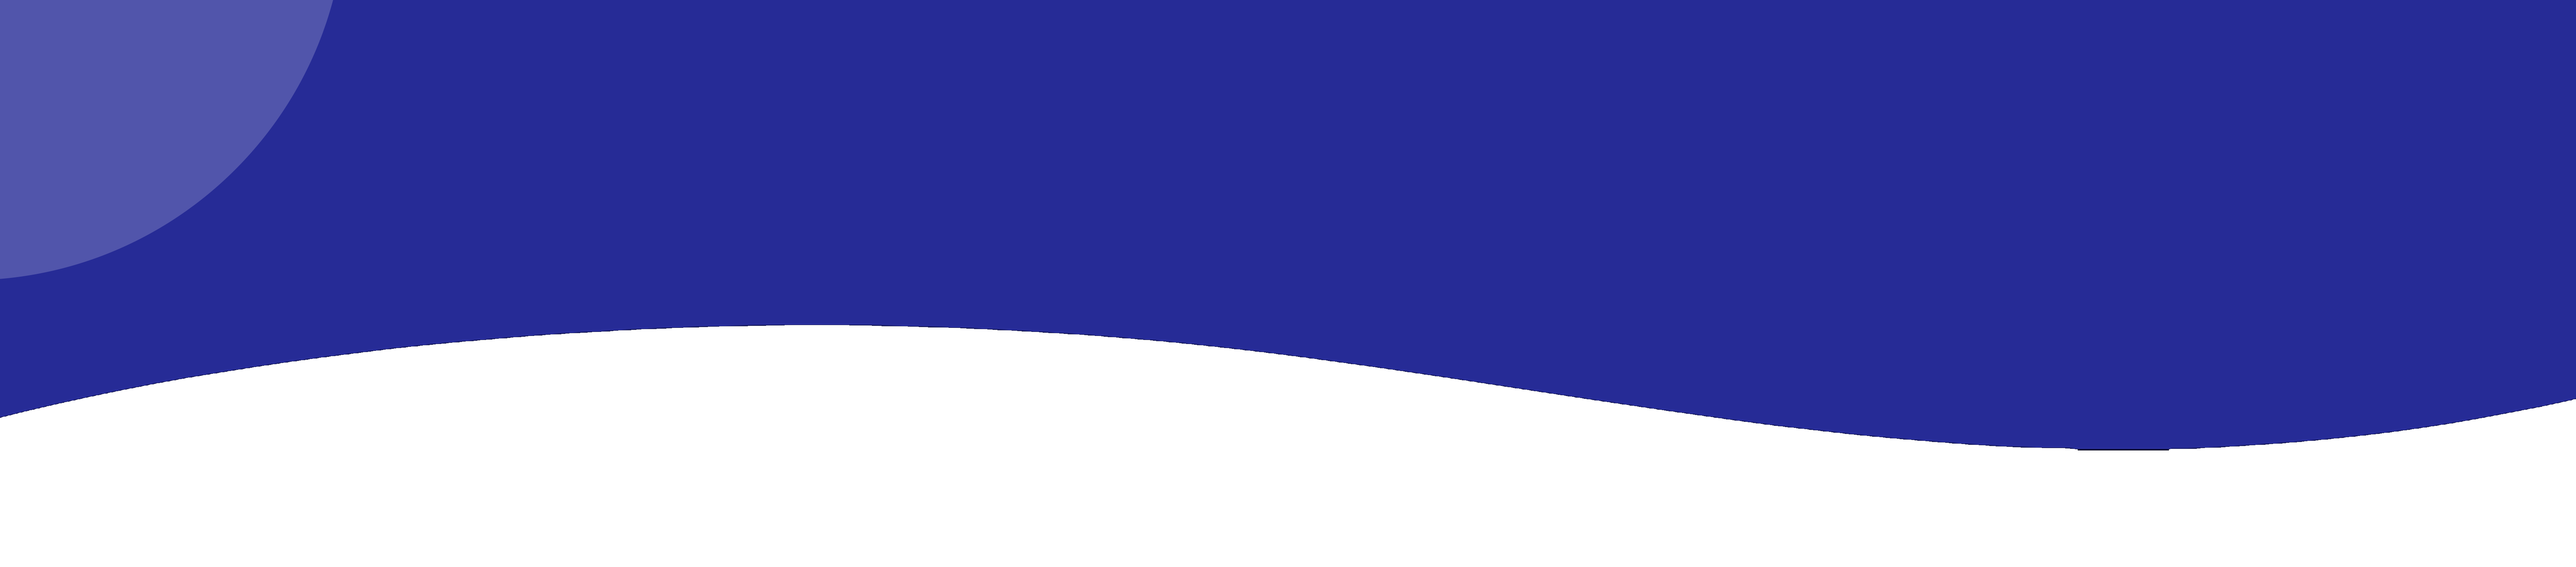
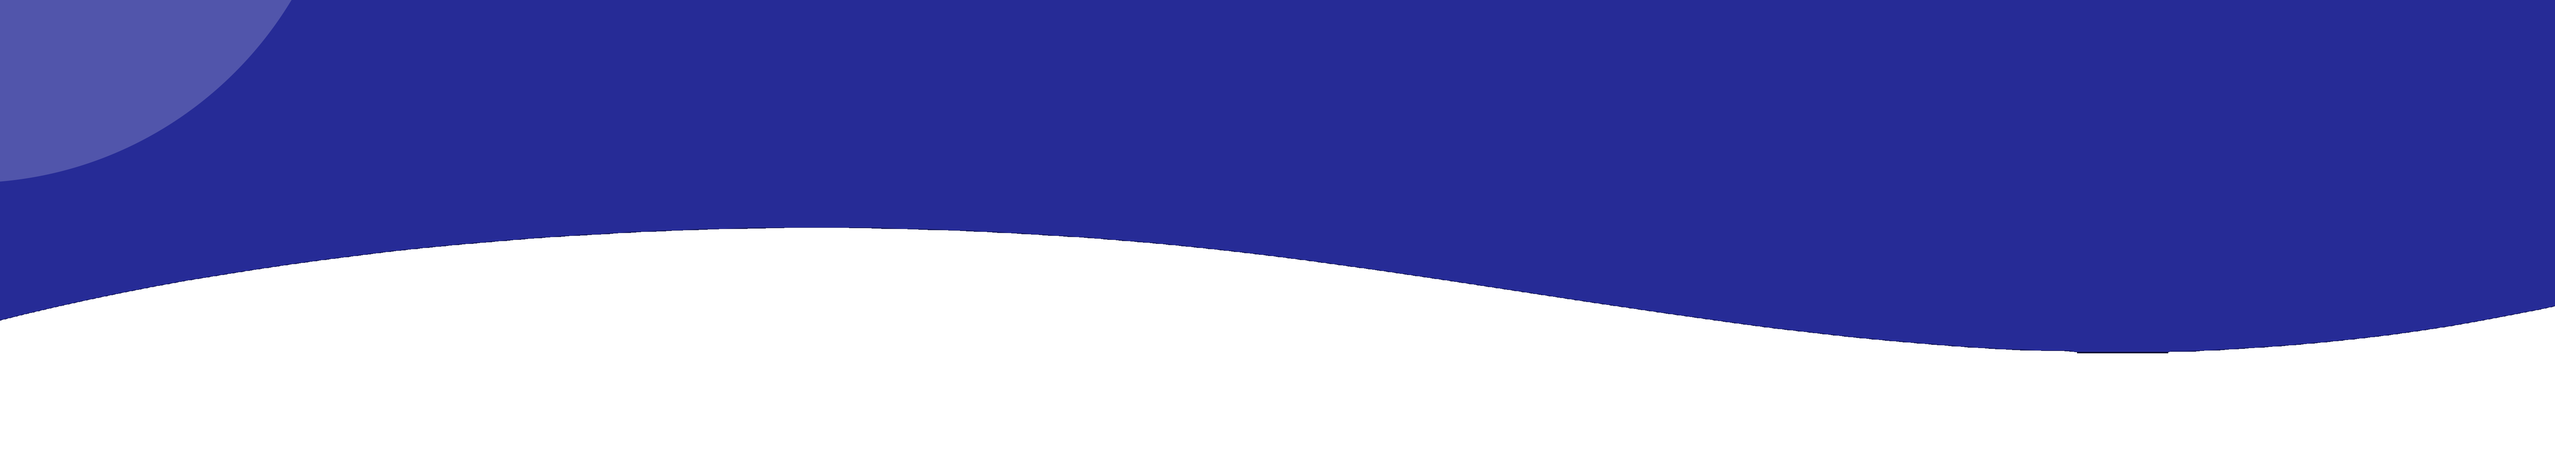
17:45

Changed region(s): [[0.0, 0.4639, 1.0, 0.8041], [0.0, 0.0, 0.1556, 0.4948]]

diff --git a/project/client/src/components/new auction/NewAuction.js b/project/client/src/components/new auction/NewAuction.js
@@ -6,7 +6,7 @@ import AuctionPricing from './auction pricing/AuctionPricing';
 import UploadingProducts from './uploading products/UploadingProducts';
 import { BrowserRouter as Router, Link, useRouteMatch, Route, Switch } from 'react-router-dom'
 import FinalStep from './FinalStep';
-
+import './NewAuction.scss';
 const NewAuction = (props) => {
     return (<>
        <header className="new_auction_header">

diff --git a/project/client/src/components/homePage/home.scss b/project/client/src/components/homePage/home.scss
@@ -9,8 +9,8 @@ header{
   background-image: url('../../img/logo.png');
   background-size: 100%;
   background-repeat: no-repeat;
-  height:30vh;
-  width: 20vw;
+  height: 28vh;
+  width: 18vw;
 display: inline-block;
 cursor: pointer;
 margin-top: 5vh;

diff --git a/project/client/src/components/new auction/NewAuction.scss b/project/client/src/components/new auction/NewAuction.scss
@@ -34,7 +34,7 @@ body {
   .new_auction_header{
     background-image: url('../../img/header_small.png');
     background-size: 100% 100%;
-    height:36vh;
+    height:28vh;
     width: 100vw;
   }
  .new_auction_footer{

diff --git a/project/client/src/components/auction/Auction.scss b/project/client/src/components/auction/Auction.scss
@@ -48,7 +48,7 @@
  .auction_header{
     background-image: url('../../img/header_small.png');
     background-size: 100% 100%;
-    height:20vh;
+    height:36vh ;
     width: 100vw;
   }
  .auction_footer{
